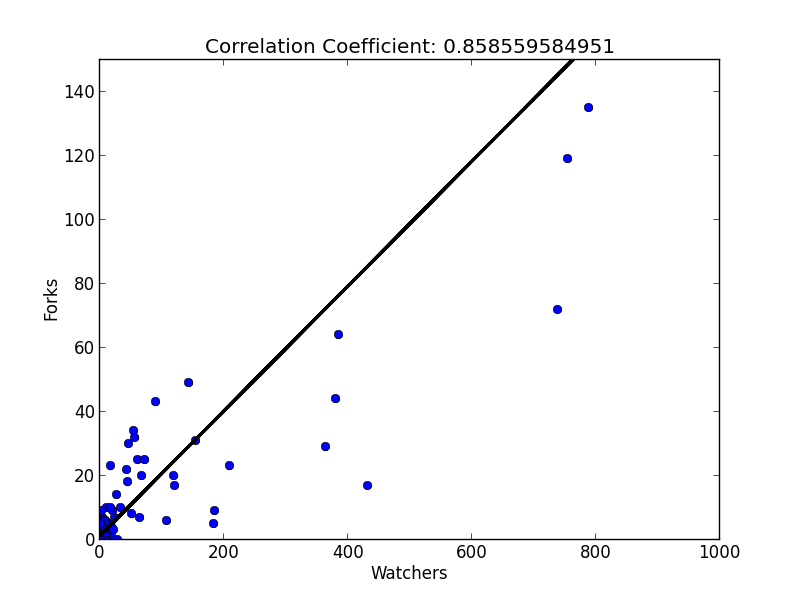
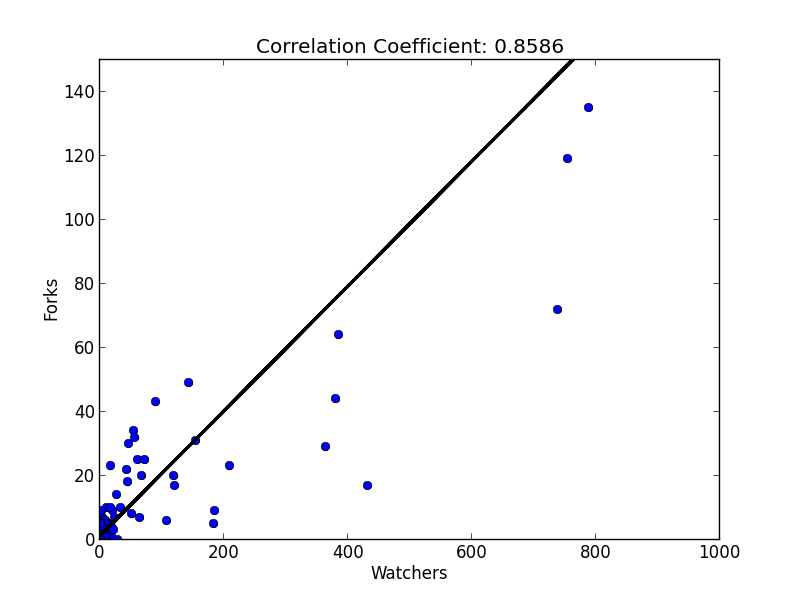
Updated code for plots.

Changed region(s): [[0.25, 0.06, 0.7812, 0.09]]

diff --git a/code/plots.py b/code/plots.py
@@ -6,7 +6,7 @@ committers_histogram.plot("committers_histogram")
 
 committers_percentage_query = '''
 select 
-	cast(cast( (count(*) / commits.cnt ) as decimal(2,2)) * 100 as unsigned integer)
+	cast(cast( (count(*) / commits.cnt ) as decimal(3,2)) * 100 as unsigned integer)
 from
     (select 
         count(*) as cnt, c1.repository_id
@@ -14,8 +14,8 @@ from
         commit c1
     group by c1.repository_id) commits
         inner join
-    commit c1 ON c1.repository_id = commits.repository_id
-group by c1.repository_id , c1.committer
+    commit c2 ON c2.repository_id = commits.repository_id
+group by c2.repository_id, c2.committer
 '''
 committers_percentage_histogram = Histograph(committers_percentage_query, "% Of Project Commits", "Committers")
 committers_percentage_histogram.plot("committers_percentage_histogram")
@@ -74,8 +74,5 @@ group by repository_id
 issue_close_time_forks_scatterplot = ScatterPlot(issue_close_time_forks_query, "Close Time", "Forks", (0,200), (0,200))
 print issue_close_time_forks_scatterplot.plot("issue_close_time_forks_scatterplot")
 
-
-
 committers_percentage_pie_chart = PieChart(committers_percentage_query)
 committers_percentage_pie_chart.plot("committers_percentage_pie_chart")
-

diff --git a/code/plotter.py b/code/plotter.py
@@ -65,14 +65,12 @@ class ScatterPlot:
 
 		fig = plt.figure() 
 		m,b = numpy.polyfit(x,y,1)
-		print("Slope: %s, B: %s") % (m,b)
-
-		plt.plot(x,y,'bo',x,m*numpy.array(x)+b,'-k',linewidth=2)
 
 		plt.scatter(x,y)
 
-		correlation_coefficient = numpy.corrcoef(x,y)[0,1]
-		title('Correlation Coefficient: ' + str(correlation_coefficient))
+		correlation_coefficient = "%.4f" % numpy.corrcoef(x,y)[0,1]
+		title('Correlation Coefficient: ' + correlation_coefficient)
+		plt.plot(x,y,'bo',x,m*numpy.array(x)+b,'-k',linewidth=2)
 
 		plt.xlabel(self.xlabel)
 		plt.ylabel(self.ylabel)

diff --git a/code/research.py b/code/research.py
@@ -147,4 +147,4 @@ def crawl(sample_size):
 		except Exception as e:
 			print e
 
-crawl(300)
+crawl(5000)

diff --git a/paper/issue_close_time_forks_scatterplot-correlation.tex b/paper/issue_close_time_forks_scatterplot-correlation.tex
@@ -1,1 +1,1 @@
-0.0757658781675
+0.0758

diff --git a/paper/issue_reporters_committers_scatterplot-correlation.tex b/paper/issue_reporters_committers_scatterplot-correlation.tex
@@ -1,1 +1,1 @@
-0.829946500283
+0.8299

diff --git a/paper/watcher_forks_scatterplot-correlation.tex b/paper/watcher_forks_scatterplot-correlation.tex
@@ -1,1 +1,1 @@
-0.858559584951
+0.8586
